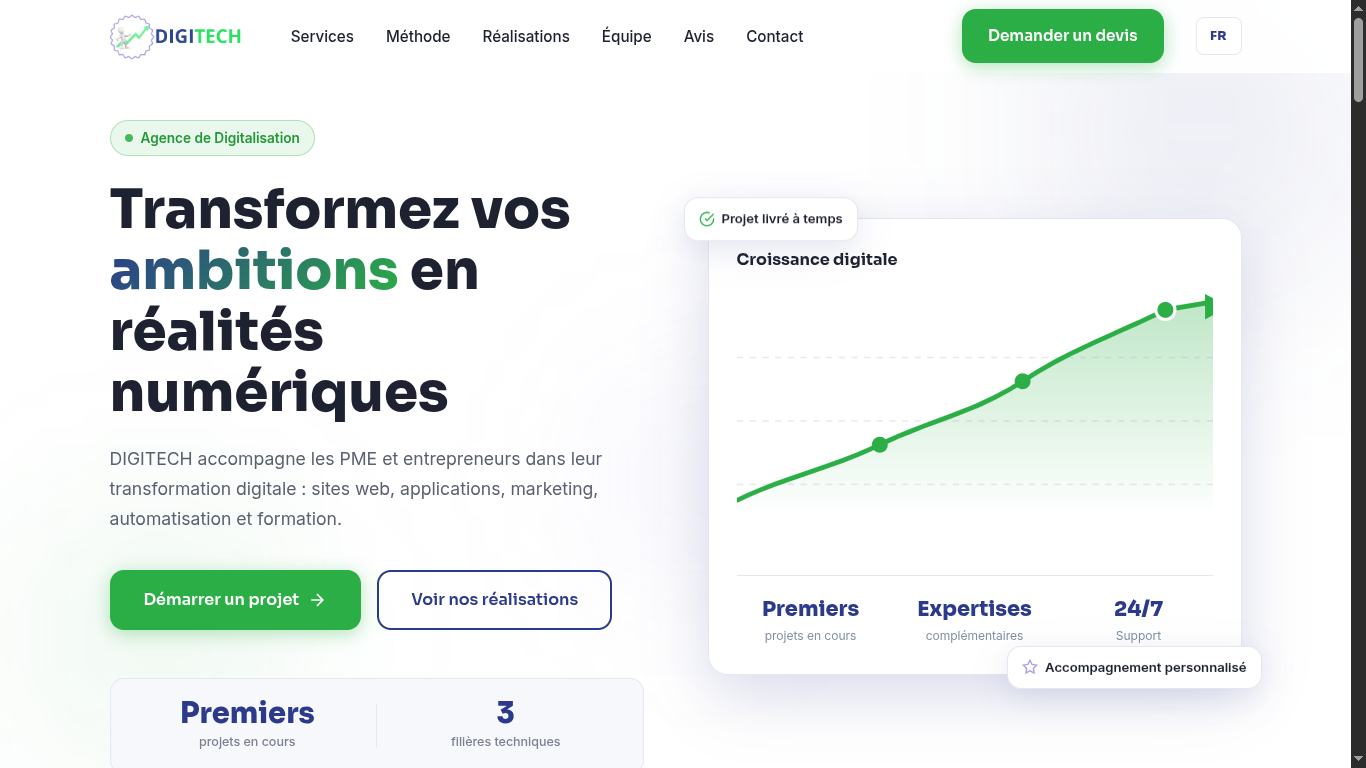
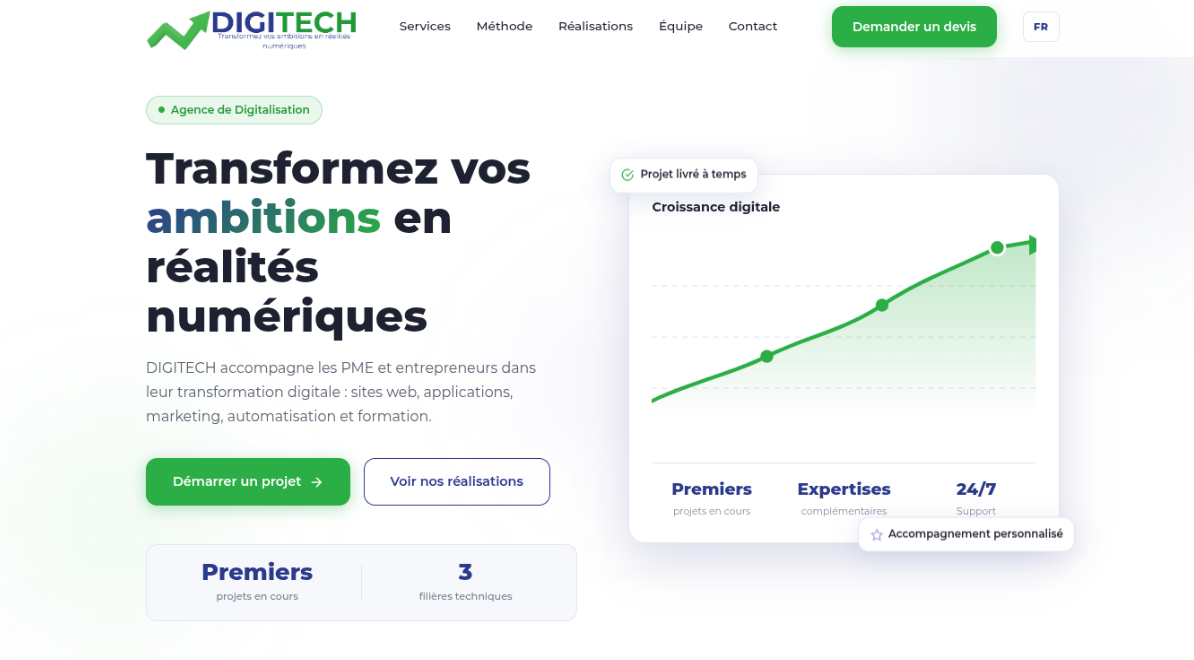
fix header's margin,change services images

diff --git a/styles.css b/styles.css
@@ -15,6 +15,7 @@
   --shadow-sm: 0 2px 12px rgba(44, 58, 140, 0.08);
   --shadow-md: 0 8px 32px rgba(44, 58, 140, 0.13);
   --shadow-lg: 0 20px 60px rgba(44, 58, 140, 0.18);
+  --header-h: 72px;
 }
 
 /* ── Reset ── */
@@ -194,8 +195,9 @@ button:focus-visible {
 .header__inner {
   display: flex;
   align-items: center;
+  justify-content: space-between;
   height: 72px;
-  gap: 32px;
+  gap: 24px;
 }
 .header__logo {
   display: inline-flex;
@@ -204,7 +206,7 @@ button:focus-visible {
 }
 .header__logo img {
   display: block;
-  max-height: 70px;
+  max-height: 50px;
   width: auto;
 }
 .logo-digi {
@@ -215,6 +217,7 @@ button:focus-visible {
 }
 .header__nav {
   flex: 1;
+  max-width: 500px;
 }
 .nav__list {
   display: flex;
@@ -238,8 +241,8 @@ button:focus-visible {
   background: rgba(44, 58, 140, 0.07) !important;
 }
 .header__cta {
-  margin-left: auto;
   flex-shrink: 0;
+  margin-left: 16px;
 }
 .lang-toggle {
   flex-shrink: 0;
@@ -254,6 +257,7 @@ button:focus-visible {
   font-weight: 800;
   letter-spacing: 0.04em;
   transition: var(--transition);
+  margin-left: 12px;
 }
 .lang-toggle:hover {
   border-color: var(--green);
@@ -288,21 +292,44 @@ button:focus-visible {
   display: none;
   flex-direction: column;
   background: var(--white);
-  padding: 16px 24px 24px;
+  padding: 20px 24px 24px;
   border-top: 1px solid var(--border);
   box-shadow: var(--shadow-md);
+  position: fixed;
+  top: 60px;
+  left: 0;
+  right: 0;
+  z-index: 998;
+  max-height: calc(100vh - 60px);
+  overflow-y: auto;
+  transform: translateY(-10px);
+  opacity: 0;
+  transition: transform 0.3s ease, opacity 0.3s ease;
 }
 .mobile-menu.open {
   display: flex;
+  transform: translateY(0);
+  opacity: 1;
 }
 .mobile-menu ul {
   display: flex;
   flex-direction: column;
-  gap: 4px;
+  gap: 8px;
 }
 .mobile-menu .nav__link {
   display: block;
-  padding: 12px 8px;
+  padding: 14px 12px;
+  border-radius: var(--radius-sm);
+  font-weight: 500;
+  transition: var(--transition);
+}
+.mobile-menu .nav__link:hover {
+  background: rgba(44, 58, 140, 0.07);
+  color: var(--navy);
+}
+.mobile-menu__cta {
+  margin-top: 16px;
+  width: 100%;
 }
 
 /* ============================================================
@@ -1389,7 +1416,7 @@ button:focus-visible {
    FOOTER
 ============================================================ */
 .footer {
-  background: #13182e;
+  background: var(--navy);
   color: rgba(255, 255, 255, 0.75);
   padding-top: 72px;
 }
@@ -1728,8 +1755,18 @@ button:focus-visible {
   }
 }
 @media (max-width: 768px) {
+  :root {
+    --header-h: 60px;
+  }
   .section {
     padding: 64px 0;
+  }
+  .container {
+    padding: 0 16px;
+  }
+  .header__inner {
+    height: 60px;
+    gap: 12px;
   }
   .services__grid {
     grid-template-columns: 1fr;
@@ -1750,10 +1787,12 @@ button:focus-visible {
     display: none;
   }
   .header .lang-toggle {
-    margin-left: auto;
+    margin-left: 0;
+    margin-right: 8px;
   }
   .hamburger {
     display: flex;
+    margin-left: 0;
   }
   .trust-banner__inner {
     flex-direction: column;
@@ -1785,6 +1824,9 @@ button:focus-visible {
   }
 }
 @media (max-width: 480px) {
+  .container {
+    padding: 0 12px;
+  }
   .hero {
     padding: 100px 0 64px;
   }

diff --git a/index.html b/index.html
@@ -364,19 +364,6 @@
               </ul>
               <a href="#contact" class="service-card__link">En savoir plus →</a>
             </article>
-            <article class="service-card fade-in">
-              <div class="service-card__icon service-card__icon--lavender">
-                <img src="images/service-formation.png" alt="" />
-              </div>
-              <h3 class="service-card__title">Formation</h3>
-              
-              <ul class="service-card__deliverables">
-                <li>✓ Formation aux outils digitaux</li>
-                <li>✓ Prise en main de CMS</li>
-                <li>✓ Initiation à l'IA appliquée</li>
-              </ul>
-              <a href="#contact" class="service-card__link">En savoir plus →</a>
-            </article>
           </div>
         </div>
       </section>
